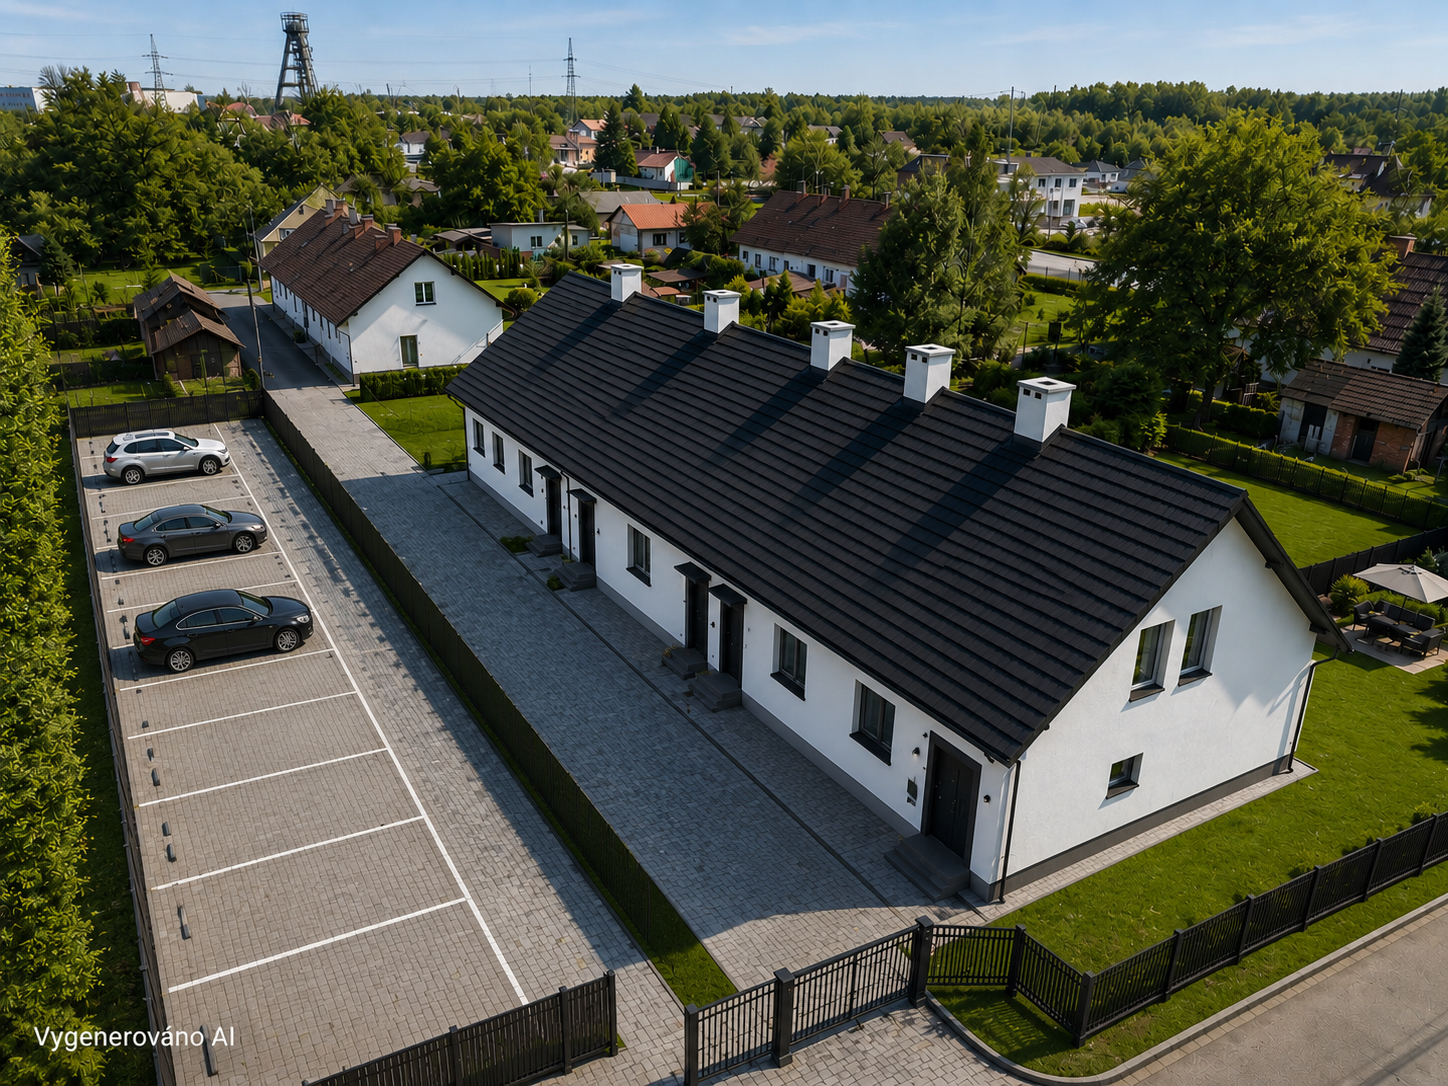
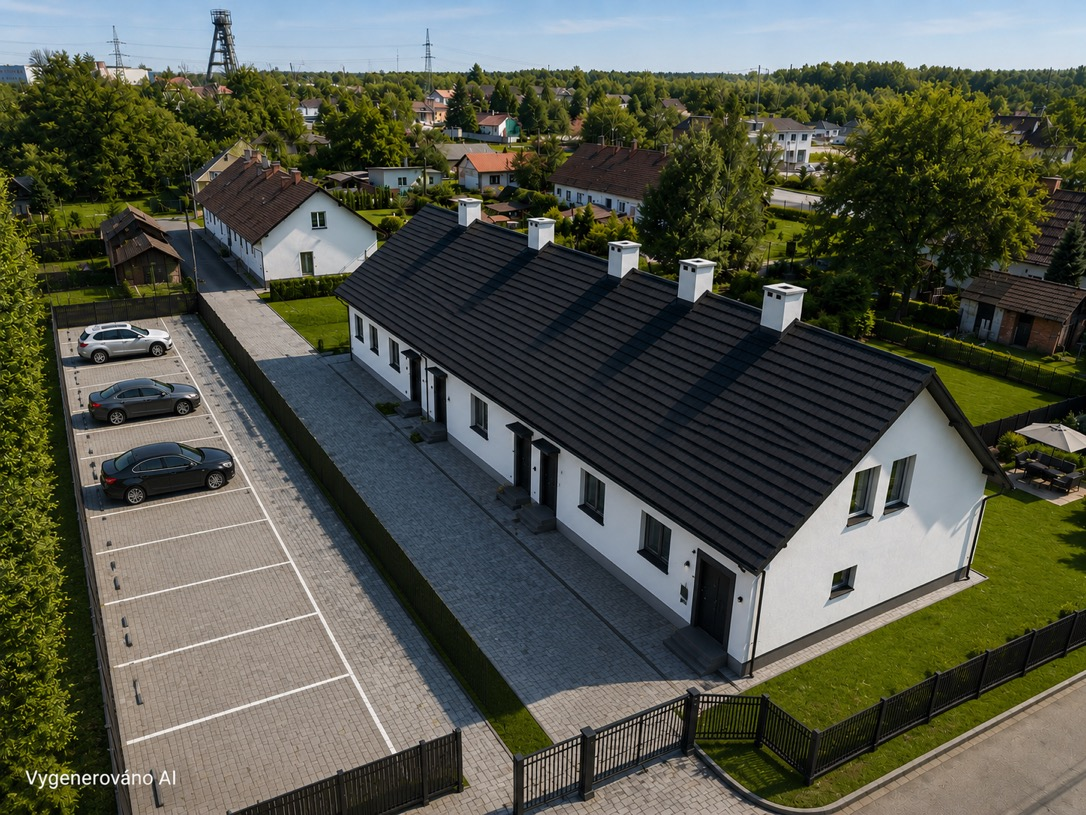
chore: optimize listing photos + add info.md

diff --git a/images/listings/investicni/petrvald-josefa-rohla/info.md b/images/listings/investicni/petrvald-josefa-rohla/info.md
@@ -1,0 +1,71 @@
+---
+type: investicni
+title: Bytový dům — 4 jednotky + zahrada + parkovací stání
+location: Petřvald, Josefa Rohla 549
+price: 13 900 000 Kč
+price_per_sqm: 34 750 Kč/m²
+size_total: 400+ m²
+units: 4
+state: K rekonstrukci
+occupancy: Bez nájemníků
+declaration_of_owner: Připraveno
+cover: 01-uvodni.jpg
+cover_is_visualization: true
+gallery:
+  - 02.jpg
+  - 03.jpg
+  - 04.jpg
+  - 05.jpg
+  - 06.jpg
+  - 07.jpg
+  - 08.jpg
+  - 09.jpg
+  - 10.jpg
+  - 11.jpg
+  - 12.jpg
+cta: Domluvit prohlídku
+investment_case:
+  buy_price_per_sqm: 34 750 Kč
+  market_price_per_sqm: 70 000 Kč
+  estimated_resale: 30 000 000 Kč
+  gross_margin: 16 100 000 Kč
+---
+
+## O nemovitosti
+
+Bytový dům se 4 bytovými jednotkami, vlastním pozemkem se zahradou a parkovacím stáním. Rezidenční objekt se nachází v klidné části města Petřvald a nabízí celkem **čtyři samostatné bytové jednotky** určené k dlouhodobému pronájmu nebo k rozprodeji po rekonstrukci.
+
+Součástí nemovitosti je **prostorná zahrada** poskytující nájemníkům možnost venkovního posezení, relaxace a rodinného využití. Objekt disponuje dostatečným zázemím pro pohodlné bydlení a díky samostatnému charakteru domu nabízí vyšší úroveň soukromí než běžná bytová zástavba.
+
+## Hlavní výhody projektu
+
+- 4 samostatné bytové jednotky
+- Vlastní pozemek a zahrada
+- Parkovací stání na pozemku
+- Prohlášení vlastníka připraveno
+- Potenciál rozdělení a rozprodeje po jednotlivých jednotkách
+- Dlouhodobě atraktivní lokalita
+- Stabilní nájemní výnos po dokončení rekonstrukce
+- Dlouhodobý růst hodnoty aktiva
+
+## Investiční potenciál
+
+| | Hodnota |
+|---|---|
+| Nákupní cena | 13 900 000 Kč |
+| Cena za m² (nákup) | ~34 750 Kč |
+| Tržní cena za m² v lokalitě (po rekonstrukci) | ~70 000 Kč |
+| Předpokládaná prodejní cena po rozdělení na 3–4 jednotky | ~30 000 000 Kč |
+| **Hrubá marže** | **~16 100 000 Kč** |
+
+*Čísla jsou orientační, vychází z aktuálních lokálních benchmarků. Přesná kalkulace dle individuálního projektu rekonstrukce a strategie prodeje.*
+
+## Investiční záměr
+
+Cílem projektu je vytvořit **stabilní výnosové aktivum** založené na kvalitním nájemním bydlení, nebo realizovat **kapitálové zhodnocení rozdělením** a postupným prodejem jednotlivých jednotek. Prostřednictvím rekonstrukce, modernizace a efektivního využití potenciálu nemovitosti dochází k růstu hodnoty objektu i generovaného cash flow.
+
+> *„Petřvald je příkladem menší rezidenční investice, která kombinuje stabilní nájemní výnos, vlastní pozemek a dlouhodobý potenciál růstu hodnoty nemovitosti."*
+
+## Stav nemovitosti
+
+Dům je v současné době připraven k celkové rekonstrukci. Interiéry jsou vyklizené a připravené pro vaši vlastní vizi — od kompletní modernizace bytových jednotek po finální rozdělení podle plánu vlastníka. Nemovitost je v technickém stavu, který umožňuje okamžitý nástup rekonstrukčních prací.